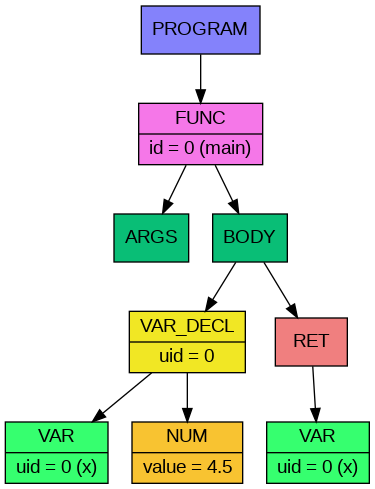
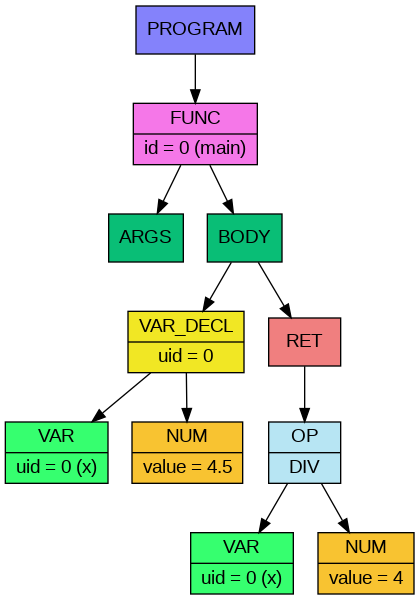
Add some NASM code comments and first arithmetic operations analysis

diff --git a/back_end/source/back_end_run.c b/back_end/source/back_end_run.c
@@ -45,7 +45,7 @@ void gen_func(node_t* func_node, const identifier_t* const identifiers)
                          "func_%zu:\n"
                          "\tpush rbp\n"
                          "\tmov rbp, rsp\n"
-                         "\tsub rsp, %zu\n",
+                         "\tsub rsp, %zu\t\t; Stack preparation\n\n",
                          identifiers[func_node->data_t.id_number].name,
                          func_counter,
                          local_vars_stack_size);
@@ -55,7 +55,8 @@ void gen_func(node_t* func_node, const identifier_t* const identifiers)
     text_pos += (size_t)snprintf(text_buffer + text_pos, sizeof(text_buffer) - text_pos,
                          "\nfunc_end_%zu:\n"
                          "\tadd rsp, %zu\n"
-                         "\tret\n\n",
+                         "\tpop rbp\n"
+                         "\tret\t\t; Stack free\n\n",
                          func_counter,
                          local_vars_stack_size);
 }
@@ -73,6 +74,8 @@ void gen_op(node_t* op_node, const identifier_t* const identifiers)
     switch (op_node->kind)
     {
         case NODE_RET:
+            text_pos += (size_t)snprintf(text_buffer + text_pos, sizeof(text_buffer) - text_pos,
+                         ";========== RET ==========\n");
             if (op_node->child_count >= 1)
                 gen_expr(op_node->children[0]);
             else
@@ -83,12 +86,19 @@ void gen_op(node_t* op_node, const identifier_t* const identifiers)
             break;
 
         case NODE_VAR_DECL:
+        {
+            node_t* var_node = op_node->children[0];
+            text_pos += (size_t)snprintf(text_buffer + text_pos, sizeof(text_buffer) - text_pos,
+                         ";========== VAR_DECL_ID %d ==========\n", var_node->unique_id);
             if (op_node->child_count >= 2)
             {
                 gen_expr(op_node->children[1]);
                 text_pos += (size_t)snprintf(text_buffer + text_pos, sizeof(text_buffer) - text_pos,
-                                         "\tmovsd [rbp - %zu], xmm0\n", (size_t)(op_node->unique_id + 1) * sizeof(double));
+                                             "\tmovsd [rbp - %zu], xmm0\t\t; variable_%d (\"%s\") init\n\n",
+                                             (size_t)(op_node->unique_id + 1) * sizeof(double),
+                                             var_node->unique_id, identifiers[var_node->data_t.id_number].name);
             }
+        }
 
         default:
             break;
@@ -114,9 +124,50 @@ void gen_expr(node_t* expr_node)
                                          "\tmovsd xmm0, [rbp - %zu]\n", (size_t)(expr_node->unique_id + 1) * sizeof(double));
             break;
 
+        case NODE_OP:
+            op_node_to_asm(expr_node);
+            break;
+
         default:
             break;
     }
+}
+
+void op_node_to_asm(node_t* expr_node)
+{
+    gen_expr(expr_node->children[1]);
+    text_pos += (size_t)snprintf(text_buffer + text_pos, sizeof(text_buffer) - text_pos,
+                                 "\tmovsd xmm1, xmm0\t\t; Save right value in xmm1\n\n");
+    gen_expr(expr_node->children[0]);
+
+    switch(expr_node->data_t.op)
+    {
+        case ADD:
+            text_pos += (size_t)snprintf(text_buffer + text_pos, sizeof(text_buffer) - text_pos,
+                                         "\taddsd xmm0, xmm1");
+            break;
+
+        case SUB:
+            text_pos += (size_t)snprintf(text_buffer + text_pos, sizeof(text_buffer) - text_pos,
+                                         "\tsubsd xmm0, xmm1");
+            break;
+
+        case MUL:
+            text_pos += (size_t)snprintf(text_buffer + text_pos, sizeof(text_buffer) - text_pos,
+                                         "\tmulsd xmm0, xmm1");
+            break;
+
+        case DIV:
+            text_pos += (size_t)snprintf(text_buffer + text_pos, sizeof(text_buffer) - text_pos,
+                                         "\tdivsd xmm0, xmm1");
+            break;
+
+        default:
+            break;
+    }
+
+    text_pos += (size_t)snprintf(text_buffer + text_pos, sizeof(text_buffer) - text_pos,
+                                         "\t\t; Operation end\n\n");
 }
 
 size_t count_local_vars(node_t* current)

diff --git a/back_end/headers/back_end.h b/back_end/headers/back_end.h
@@ -17,6 +17,8 @@ void gen_block(node_t* block_node, const identifier_t* const identifiers);
 void gen_op(node_t* op_node, const identifier_t* const identifiers);
 void gen_expr(node_t* expr_node);
 
+void op_node_to_asm(node_t* expr_node);
+
 size_t count_local_vars(node_t* current);
 size_t align_up_16(size_t number);
 
